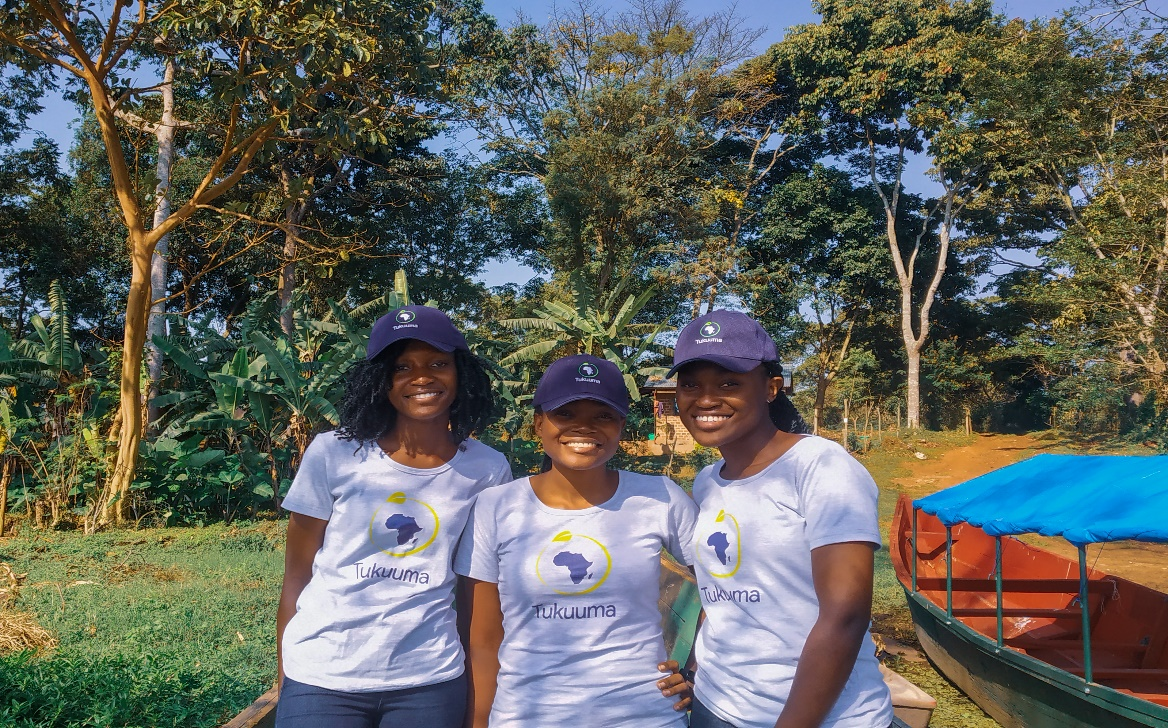
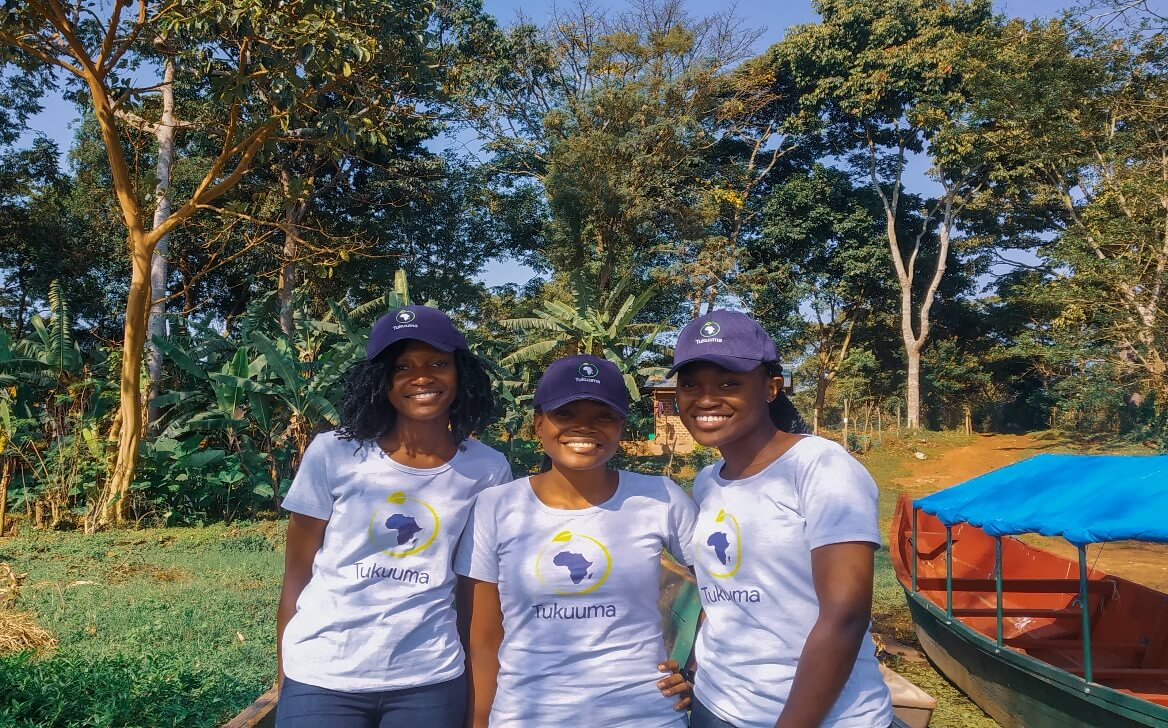
Made images responsive

diff --git a/css/style.css b/css/style.css
@@ -74,14 +74,11 @@ ul {
 
 aside {
     z-index: 6190619 !important;
-    text-orientation: upright;
     position: fixed;
     left: 0;
     top: 45vh;
     font-weight: bold;
     background-color: #ffffff;
-    writing-mode: vertical-rl;
-    text-orientation: sideways;
     border-top-right-radius: 7px;
     border-bottom-right-radius: 7px;
     margin: none;
@@ -111,7 +108,11 @@ header h1 {
     color: rgb(60, 62, 85);
 }
 
-h1{
+h1 {
+    text-align: center;
+}
+
+.variation-light h1{
     text-align: center;
 }
 
@@ -128,6 +129,8 @@ h1{
 .landing img {
     max-width: 100%;
     max-height: 20em;
+    object-fit: cover;
+    object-position: center;
 }
 
 .navbar-fixed {
@@ -215,6 +218,10 @@ h1{
 .variation-light {
     background-color: rgb(125, 153, 181);
     color: white;
+}
+
+#variation-green {
+    background-color: white;
 }
 
 .greenColor {

diff --git a/js/app.js b/js/app.js
@@ -12,4 +12,21 @@ $(window).scroll(function () {
     }
 });
 
+let clicked = 1;
+
+$("#change_color").click(() => {
+    if(clicked === 0){
+        $(".variation-light").css({"background-color": "rgb(125, 153, 181)", "color": "white"});
+        $("h1").css("text-decoration", "none");
+        clicked = 1;
+        console.log(clicked);
+    }
+    else if(clicked === 1) {
+        $(".variation-light").css({"background-color": "white", "color": "rgb(60, 62, 85)"});
+        $("h1").css({"text-decoration": "underline", "text-decoration-color": "rgb(137, 160, 25)"});
+        $("#dont_show").css("text-decoration", "none");
+        clicked = 0;
+        console.log(clicked);
+    }
+});
 

diff --git a/index.php b/index.php
@@ -10,7 +10,7 @@
                 <li data-target="#carousel" data-slide-to="3"></li>
             </ol>
             <div class="carousel-inner" role="listbox">
-                <div class="carousel-item active">
+                <div class="carousel-item  active">
                         <!-- 
                         If you need more browser support use https://scottjehl.github.io/picturefill/
                         If a picture looks blurry on a retina device you can add a high resolution like this
@@ -19,34 +19,34 @@
                         What image sizes should you use? This can help - https://codepen.io/JacobLett/pen/NjramL
                             -->
                         <picture>
-                            <!-- <source srcset="https://dummyimage.com/2000x900/007aeb/4196e5" media="(min-width: 1400px)">
-                            <source srcset="https://dummyimage.com/1400x900/#007aeb/4196e5" media="(min-width: 769px)">
-                            <source srcset="https://dummyimage.com/800x900/007aeb/4196e5" media="(min-width: 577px)"> -->
-                            <img srcset="images/image-003.png" alt="responsive image" class="d-block img-fluid m-auto">
+                            <source srcset="images/responsive/logo-2000X900.png" media="(min-width: 1400px)">
+                            <source srcset="images/responsive/logo-1400X900.png" media="(min-width: 769px)">
+                            <source srcset="images/responsive/logo-800X900.png" media="(min-width: 577px)">
+                            <img srcset="images/responsive/logo-800X900.png" alt="responsive image" class="d-block img-fluid m-auto">
                         </picture>
 
                         <div class="carousel-caption">
                         </div>
                 </div>
                 <!-- /.carousel-item -->
-                <div class="carousel-item">
+                <div class="carousel-item ">
                         <picture>
-                            <!-- <source srcset="https://dummyimage.com/2000x900/007aeb/4196e5" media="(min-width: 1400px)">
-                            <source srcset="https://dummyimage.com/1400x900/007aeb/4196e5" media="(min-width: 769px)">
-                            <source srcset="https://dummyimage.com/800x900/007aeb/4196e5" media="(min-width: 577px)"> -->
-                            <img srcset="images/image1.jpeg" alt="responsive image" class="d-block img-fluid m-auto">
+                            <source srcset="images/responsive/ceo-2000X900.jpg" media="(min-width: 1400px)">
+                            <source srcset="images/responsive/ceo-1400X900.jpg" media="(min-width: 769px)">
+                            <source srcset="images/responsive/ceo-800X900.jpg" media="(min-width: 577px)">
+                            <img srcset="images/responsive/ceo-800X900.jpg" alt="responsive image" class="d-block img-fluid m-auto">
                         </picture>
 
                         <div class="carousel-caption justify-content-center align-items-center">
                         </div>
                 </div>
                 <!-- /.carousel-item -->
-                <div class="carousel-item">
+                <div class="carousel-item ">
                         <picture>
-                            <!-- <source srcset="https://dummyimage.com/2000x900/007aeb/4196e5" media="(min-width: 1400px)">
-                            <source srcset="https://dummyimage.com/1400x900/007aeb/4196e5" media="(min-width: 769px)">
-                            <source srcset="https://dummyimage.com/800x900/007aeb/4196e5" media="(min-width: 577px)"> -->
-                            <img srcset="images/image2.jpeg" alt="responsive image" class="d-block img-fluid m-auto">
+                            <source srcset="images/responsive/cleaning-2000X900.jpg" media="(min-width: 1400px)">
+                            <source srcset="images/responsive/cleaning-1400X900.jpg" media="(min-width: 769px)">
+                            <source srcset="images/responsive/cleaning-800X900.jpg" media="(min-width: 577px)">
+                            <img srcset="images/responsive/cleaning-800X900.jpg" alt="responsive image" class="d-block img-fluid m-auto">
                         </picture>
 
                         <div class="carousel-caption justify-content-center align-items-center">
@@ -54,12 +54,12 @@
                 </div>
                 <!-- /.carousel-item -->
                 <!-- /.carousel-item -->
-                <div class="carousel-item">
+                <div class="carousel-item ">
                         <picture>
-                            <!-- <source srcset="https://dummyimage.com/2000x900/007aeb/4196e5" media="(min-width: 1400px)">
-                            <source srcset="https://dummyimage.com/1400x900/007aeb/4196e5" media="(min-width: 769px)">
-                            <source srcset="https://dummyimage.com/800x900/007aeb/4196e5" media="(min-width: 577px)"> -->
-                            <img srcset="images/image3.jpeg" alt="responsive image" class="d-block img-fluid m-auto">
+                            <source srcset="images/responsive/team-2000X900.jpg" media="(min-width: 1400px)">
+                            <source srcset="images/responsive/team-1400X900.jpg" media="(min-width: 769px)">
+                            <source srcset="images/responsive/team-800X900.jpg" media="(min-width: 577px)">
+                            <img srcset="images/responsive/team-800X900.jpg" alt="responsive image" class="d-block img-fluid m-auto">
                         </picture>
 
                         <div class="carousel-caption justify-content-center align-items-center">

diff --git a/wedo.php b/wedo.php
@@ -1,7 +1,7 @@
 <?php include_once 'assets/includes/header.php'; ?>
     <section class="us variation-light display" id="us">
         <div class="row d-flex align-items-center mt-3" id="remove_margin2">
-            <div class="col-sm-5 justify-content-center align-items-center d-flex align-items-start flex-column p-3 set_height1">
+            <div class="col-sm-6 justify-content-center align-items-center d-flex align-items-start flex-column p-3 set_height1">
                 <div class="row mb-auto p-2 text-justify" id="ticks" style="margin-left: 0; margin-right: 0;">
                     <ul>
                         <li>We partner with different stakeholders with a heart for environmental stewardship to implement key environmental projects in Uganda and Africa.</li>

diff --git a/about.php b/about.php
@@ -38,7 +38,7 @@
     <section class="us variation display" id="us">
         <div class="row d-flex justify-content-center align-items-center mt-3" id="remove_margin1">
             <div class="col-sm-4 align-items-center text-center d-flex align-items-start flex-column p-3 set_height">
-                <h1 class="dark_blue">Place Holder</h1>
+                <h1 class="dark_blue" id="dont_show">Place Holder</h1>
                 <div class="h-100 d-flex align-items-center justify-content-center">
                     <p>To facilitate, lead and advocate for environmental sustainability through partnership driven implementation of sustainable projects and research on alternative methods.</p>
                 </div>

diff --git a/assets/includes/header.php b/assets/includes/header.php
@@ -32,10 +32,6 @@
             </div>
         </nav>
     </header>
-    <!-- <aside class="p-3">
-        
-    <span class="hide">Follow Us:</span>
-        <a href=""><i class='bx bxl-facebook-circle bx-rotate-270'></i></a>
-        <a target="_blank" href="https://twitter.com/TukuumaUg"><i class='bx bxl-twitter bx-rotate-270'></i></a>
-        <a target="_blank" href="https://www.linkedin.com/company/tukuuma"><i class='bx bxl-linkedin-square bx-rotate-270' ></i></a>
-    </aside> -->
+    <aside class="p-3">
+        <button id="change_color" class="btn btn-primary"><i class='bx bx-sync'></i></button>
+    </aside>
